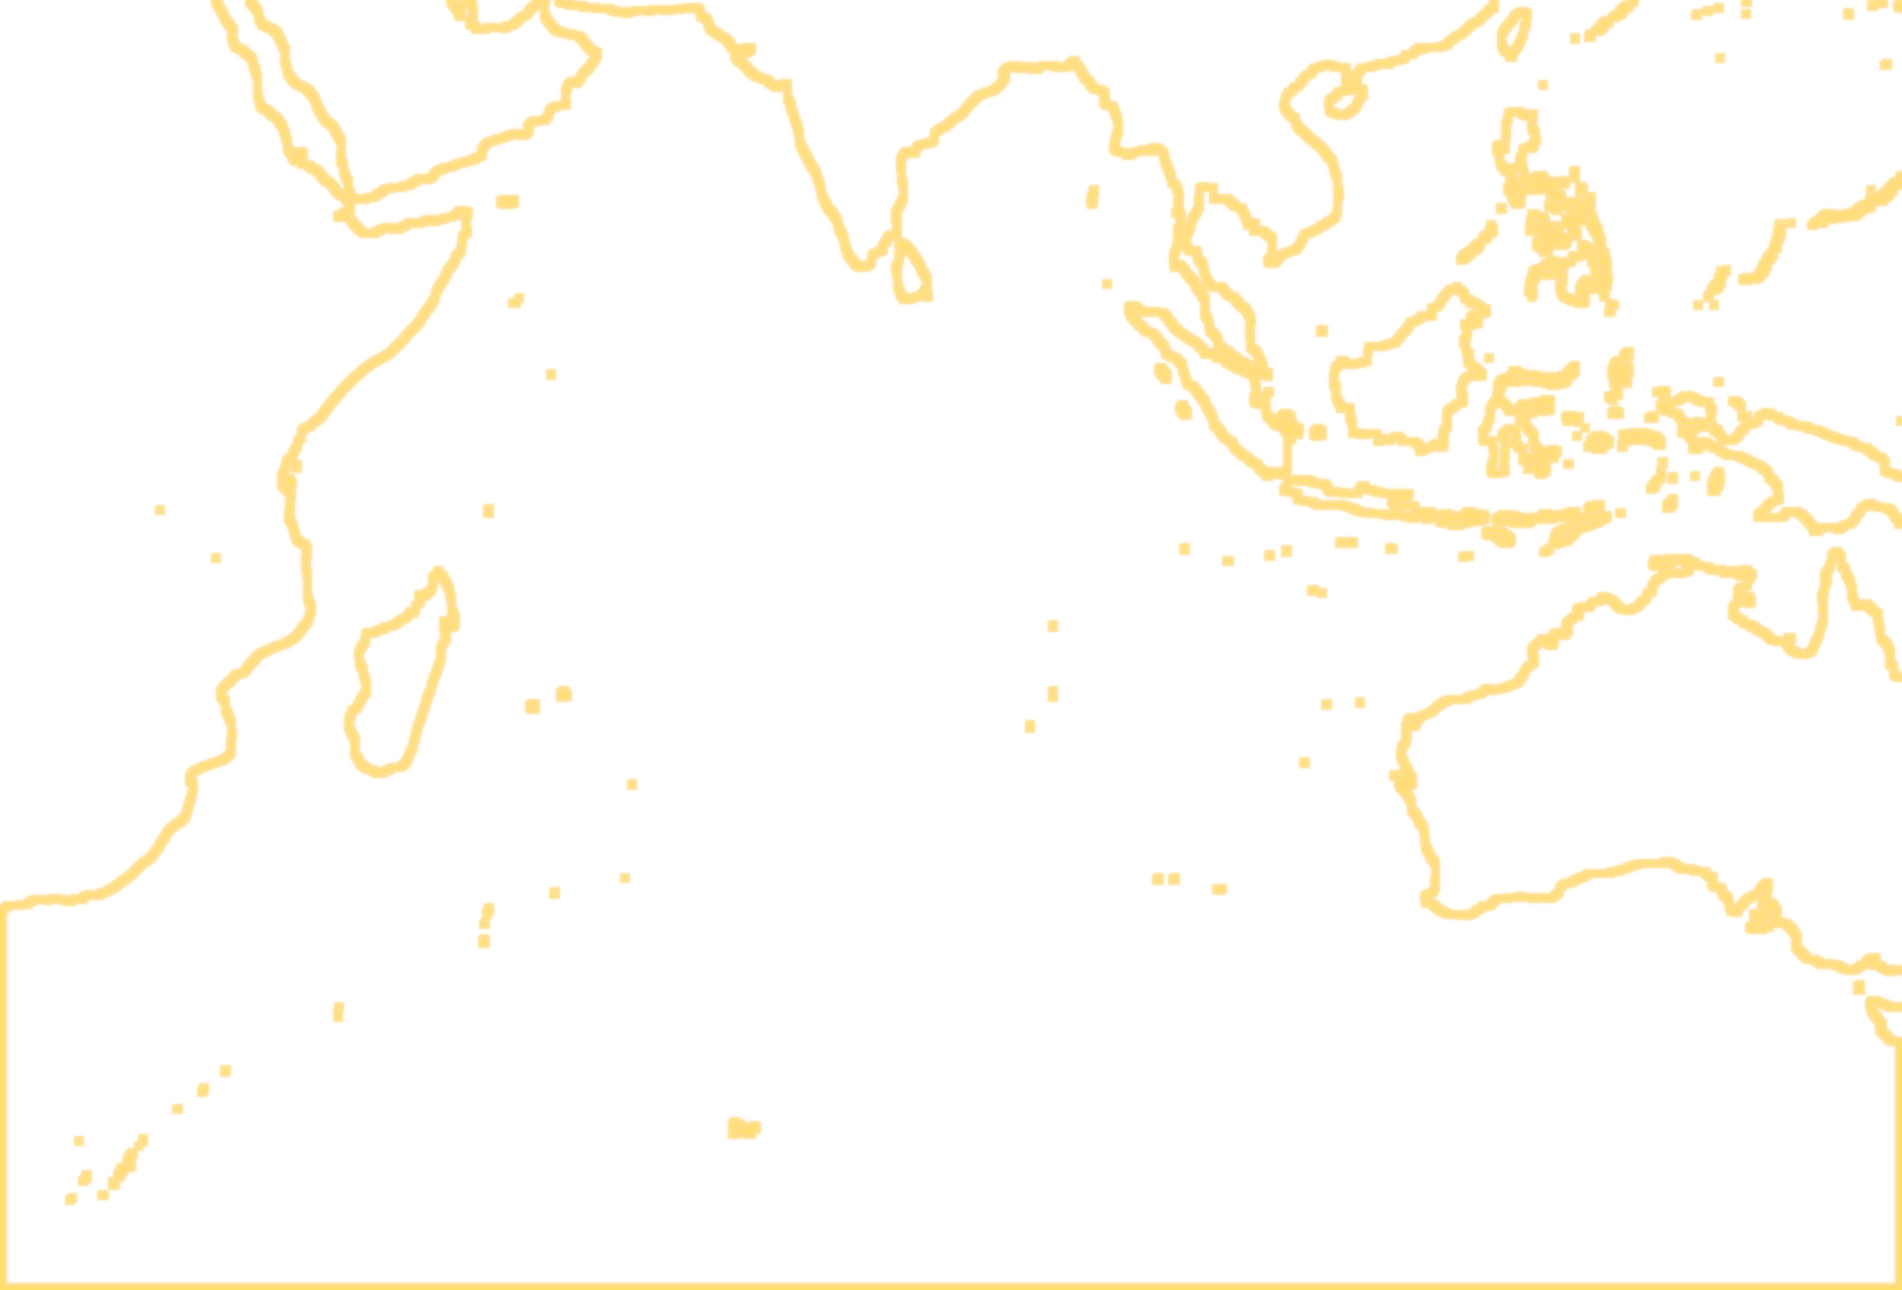
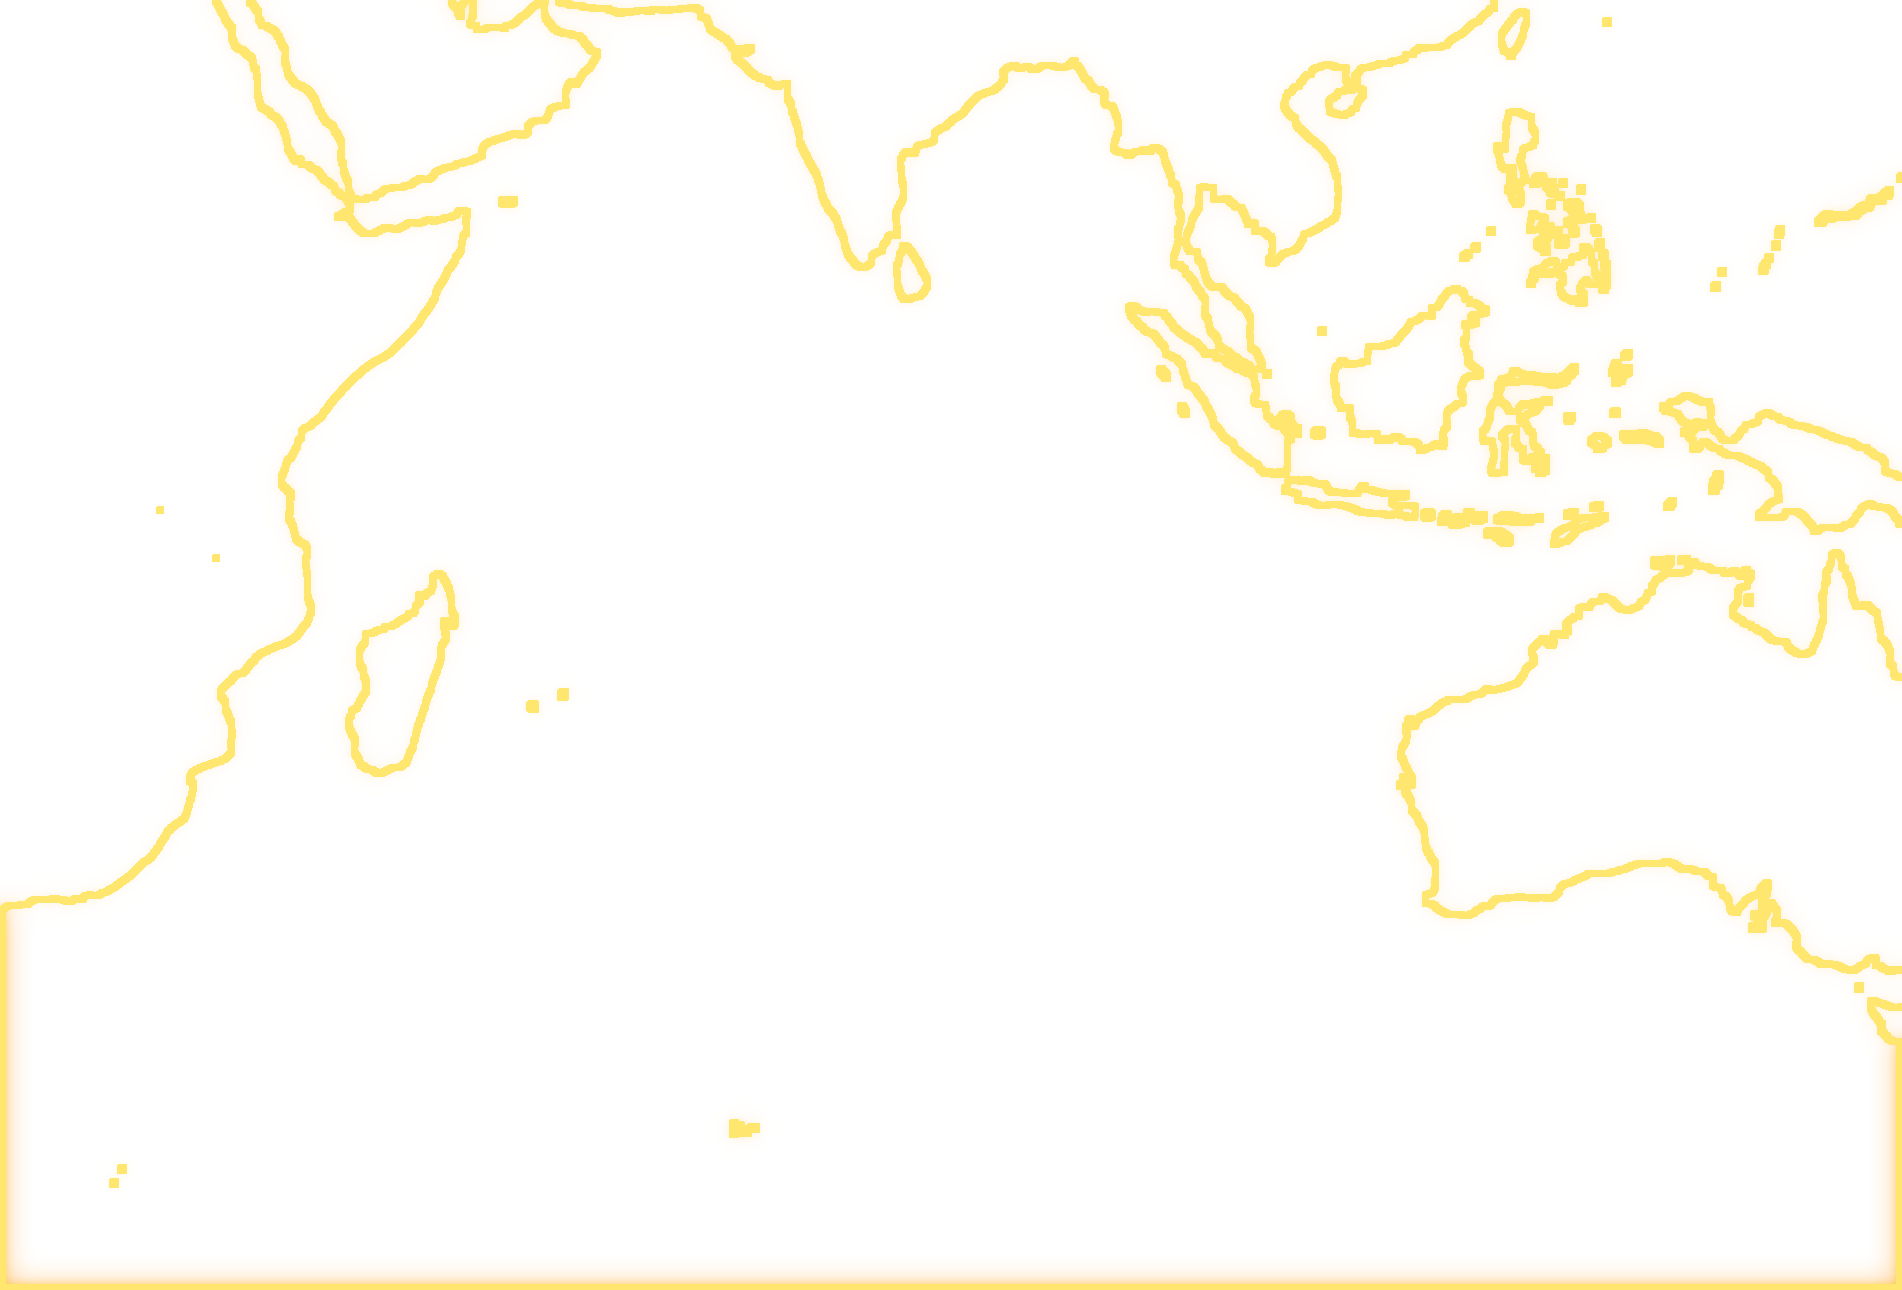
grade nudge (darker ocean/deserts), morphological asia mask cleanup

diff --git a/scripts/process_assets.py b/scripts/process_assets.py
@@ -105,15 +105,15 @@ relief = tlum / np.maximum(blur_tl, 0.02)
 
 # ---- land duotone warm ramp driven by blue-marble tone
 stops = [
-    (0.00, (88, 70, 55)),
-    (0.16, (122, 98, 78)),
-    (0.28, (158, 132, 106)),
-    (0.40, (182, 155, 128)),
-    (0.52, (200, 172, 144)),
-    (0.64, (214, 186, 158)),
-    (0.76, (228, 208, 184)),
-    (0.88, (240, 232, 220)),
-    (1.00, (248, 248, 248)),
+    (0.00, (84, 66, 52)),
+    (0.16, (112, 90, 72)),
+    (0.28, (148, 122, 98)),
+    (0.40, (176, 150, 124)),
+    (0.52, (196, 166, 138)),
+    (0.64, (208, 178, 150)),
+    (0.76, (220, 198, 175)),
+    (0.88, (238, 234, 228)),
+    (1.00, (246, 246, 248)),
 ]
 xs = np.array([s[0] for s in stops], dtype=np.float32)
 land_col = np.stack(
@@ -124,7 +124,7 @@ land_col = np.stack(
 land_col *= np.clip(0.86 + 0.14 * relief, 0.72, 1.22)[..., None]
 
 # ---- ocean recolor -> reference flat teal with faint bathymetry
-ocean_base = np.array([24 / 255, 90 / 255, 76 / 255], dtype=np.float32)
+ocean_base = np.array([22 / 255, 80 / 255, 68 / 255], dtype=np.float32)
 ocean_tone = 0.90 + 0.45 * np.clip(blum_s / 0.40, 0.0, 1.0)
 ocean_col = ocean_base[None, None, :] * ocean_tone[..., None] * np.clip(0.93 + 0.14 * relief, 0, 1.4)[..., None]
 
@@ -256,6 +256,11 @@ excl = (
     | ((LON < 36.2) & (LAT > 19.5))            # Egypt / Africa north of Suez
 )
 asia = asia_land & ~excl
+# close snow-hole speckles, then open stray specks
+_ai = Image.fromarray((asia * 255).astype(np.uint8), "L")
+_ai = _ai.filter(ImageFilter.MaxFilter(9)).filter(ImageFilter.MinFilter(9))
+_ai = _ai.filter(ImageFilter.MinFilter(5)).filter(ImageFilter.MaxFilter(5))
+asia = (np.asarray(_ai) > 127) & ~excl
 aedge = np.zeros_like(asia)
 aedge[:-1, :] |= asia[:-1, :] != asia[1:, :]
 aedge[:, :-1] |= asia[:, :-1] != asia[:, 1:]
